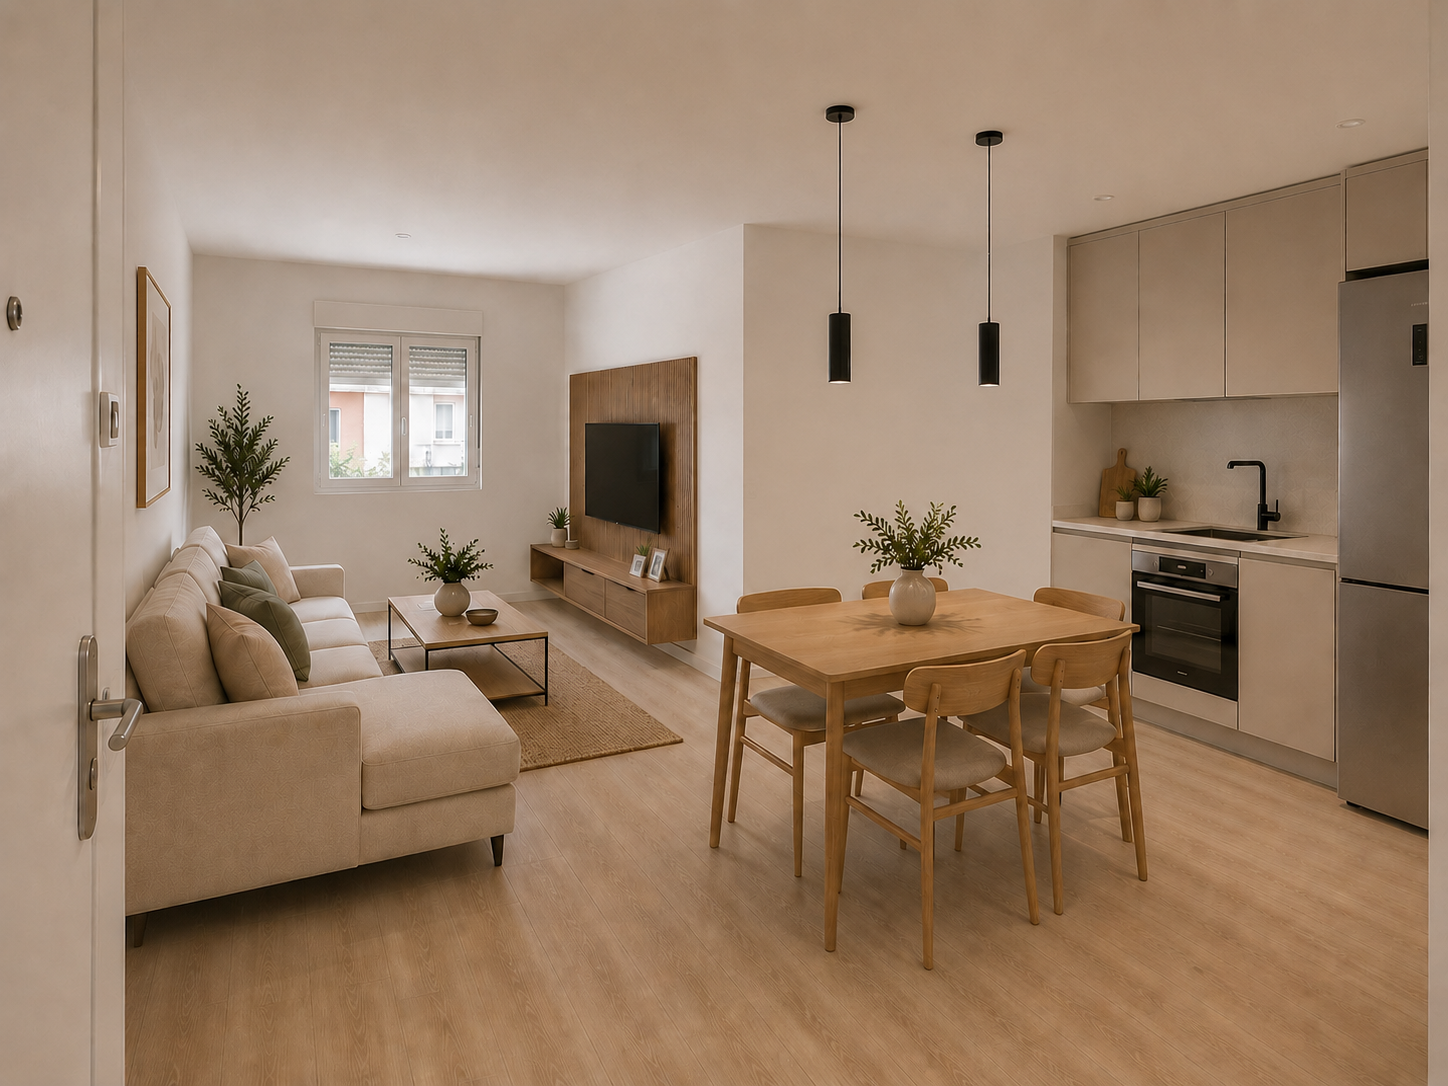
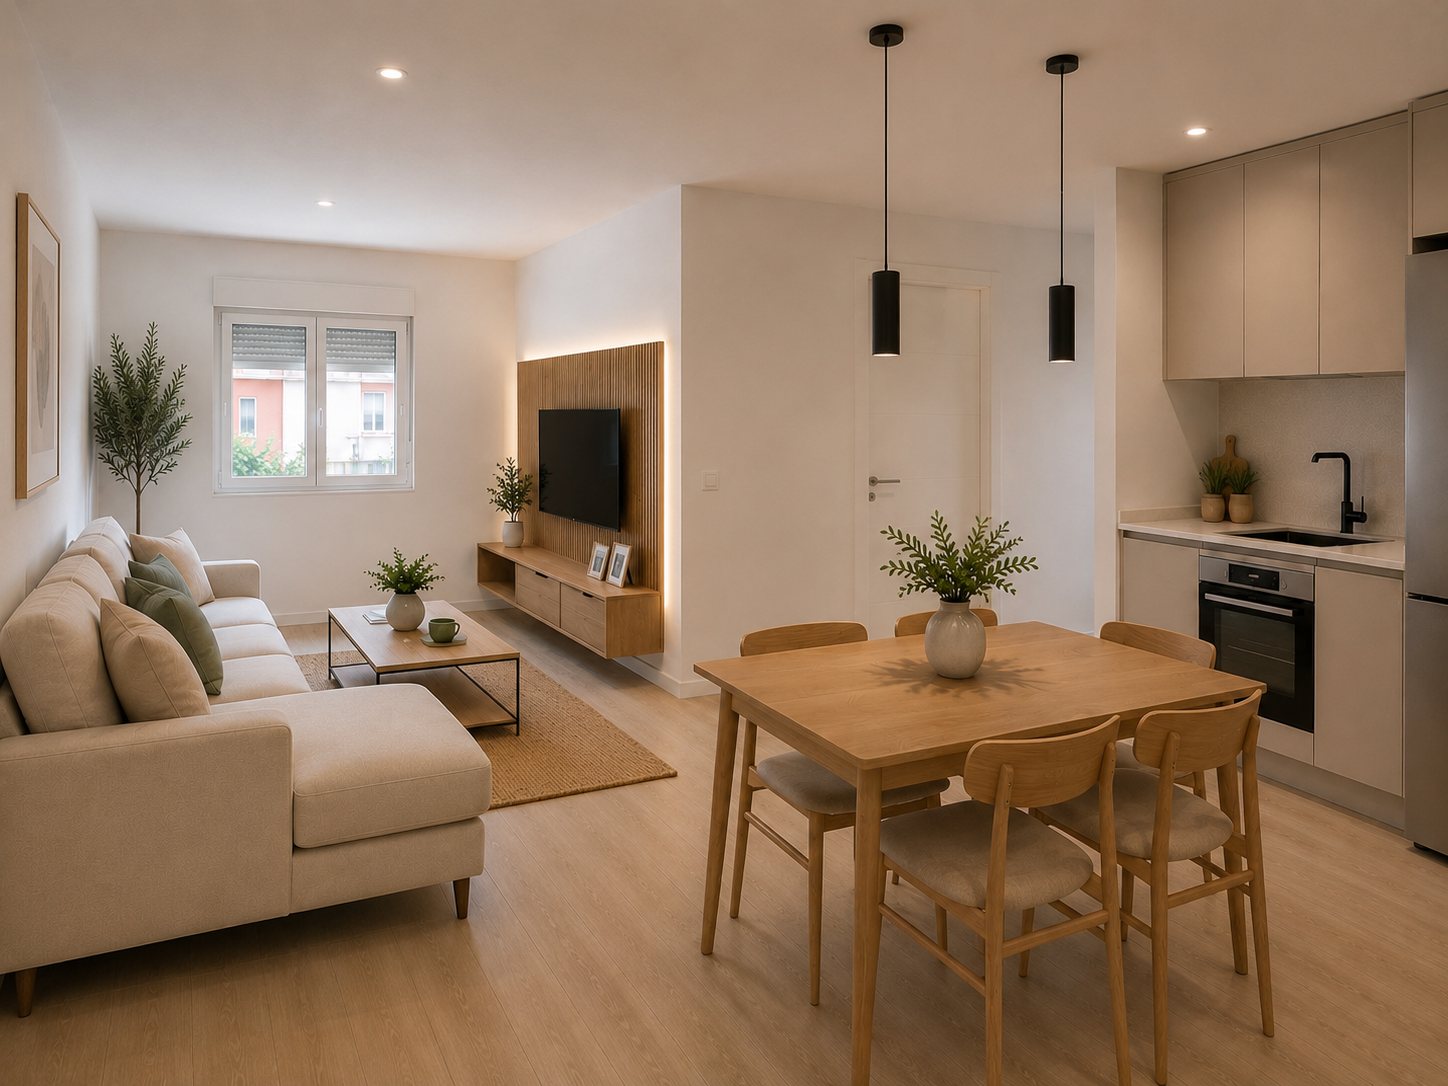
Actualizacion

diff --git a/src/data/project.config.ts b/src/data/project.config.ts
@@ -39,7 +39,7 @@ import Hab1 from "@/assets/gallery/Hab1.jpeg";
 import Hab1IA from "@/assets/gallery/Hab1IA.jpeg";
 
 import Hab2 from "@/assets/gallery/Hab2.jpeg";
-import Hab2IA from "@/assets/gallery/Hab2IA.jpeg";
+import Hab2IA from "@/assets/gallery/Hab2IA.png";
 
 import Hab3 from "@/assets/gallery/Hab3.png";
 import Hab3IA from "@/assets/gallery/Hab3IA.jpeg";